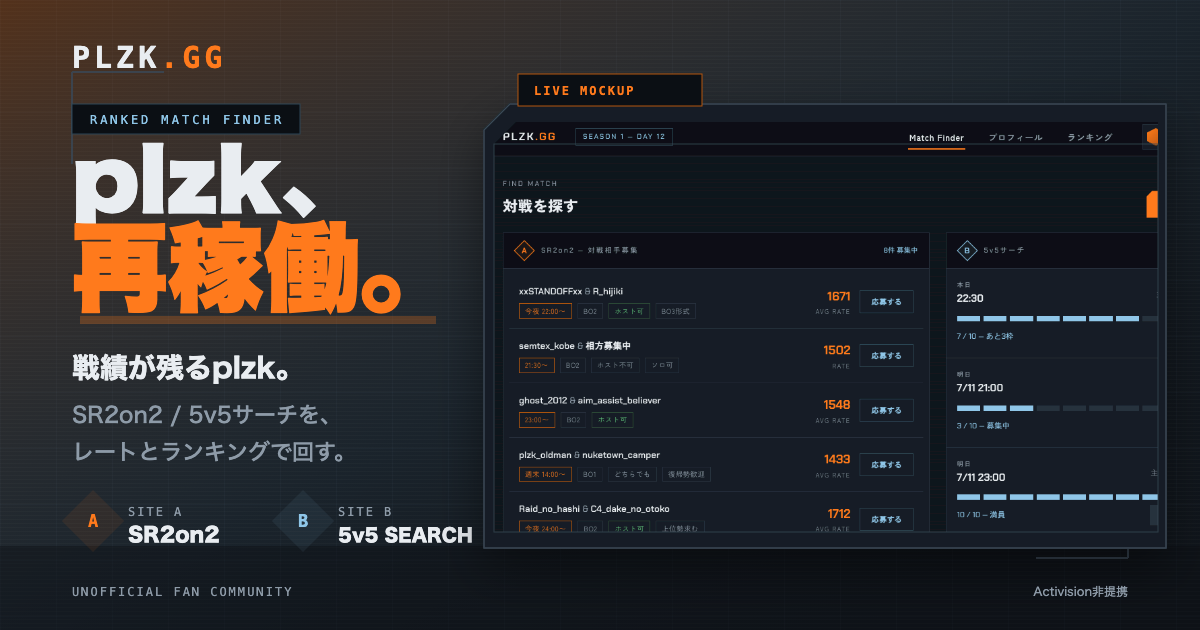
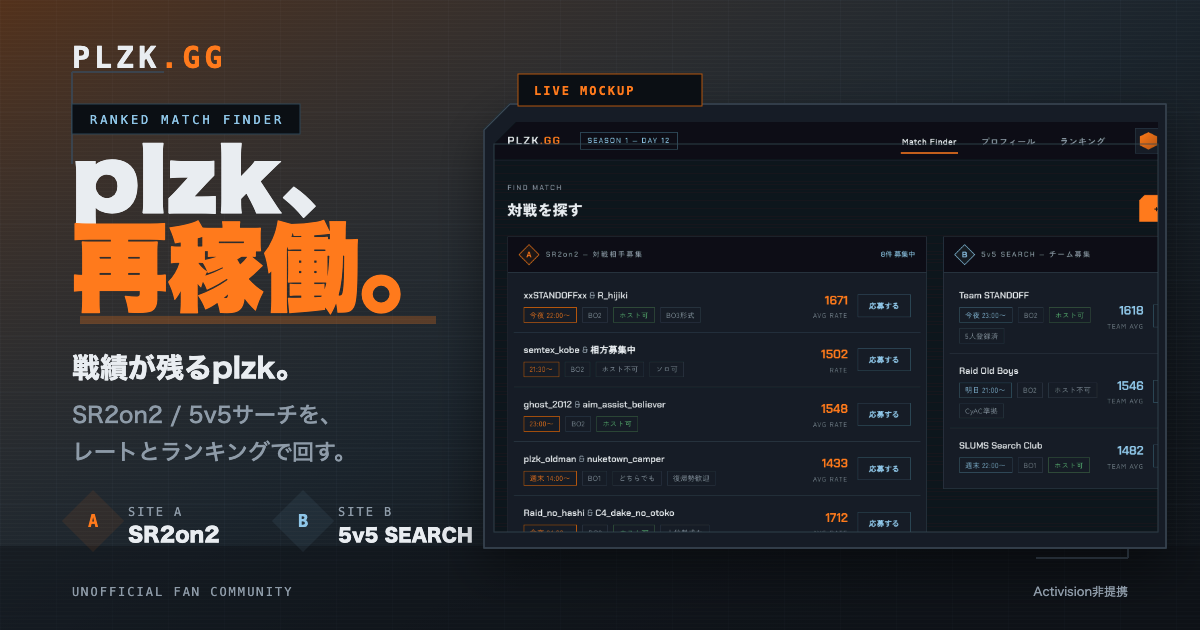
Add mockup-backed hero

diff --git a/index.html b/index.html
@@ -4,7 +4,7 @@
 <meta charset="UTF-8">
 <meta name="viewport" content="width=device-width, initial-scale=1.0">
 <title>PLZK.GG — plzk、再稼働。BO1/BO2のランク付き対戦コミュニティ</title>
-<meta name="description" content="BO1/BO2がPS5・PS4に帰ってくる。SR2on2と5v5サーチ(混合)を、レートと戦績が残る場所で回す。非公式ファンコミュニティ PLZK.GG">
+<meta name="description" content="BO1/BO2がPS5・PS4に帰ってくる。SR2on2と5v5サーチを、レートと戦績が残る場所で回す。非公式ファンコミュニティ PLZK.GG">
 <!-- OGP: X/Discord共有時の見え方 -->
 <meta property="og:title" content="plzk、再稼働。">
 <meta property="og:description" content="BO1/BO2、PS5に帰ってくる。SR2on2も5v5サーチも、ランクで回す。">
@@ -149,14 +149,47 @@ header nav a.hd-cta{
 @media(max-width:640px){header nav a:not(.hd-cta){display:none}}
 
 /* ===== HERO ===== */
-.hero{padding:120px 0 100px;border-top:none;position:relative}
+.hero{
+  min-height:min(660px,calc(100svh - 120px));
+  padding:96px 0 68px;border-top:none;position:relative;
+  overflow:hidden;display:flex;align-items:center;
+}
+.hero::after{
+  content:"";position:absolute;inset:0;pointer-events:none;z-index:1;
+  background:
+    linear-gradient(90deg,var(--bg) 0%,rgba(16,21,27,.98) 28%,rgba(16,21,27,.72) 58%,rgba(16,21,27,.28) 100%),
+    linear-gradient(0deg,var(--bg) 0%,rgba(16,21,27,0) 34%);
+}
 .hero .grid-bg{
-  position:absolute;inset:0;pointer-events:none;
+  position:absolute;inset:0;pointer-events:none;z-index:0;
   background:
     linear-gradient(rgba(143,198,232,.035) 1px,transparent 1px),
     linear-gradient(90deg,rgba(143,198,232,.035) 1px,transparent 1px);
   background-size:56px 56px;
   mask-image:radial-gradient(ellipse 80% 70% at 50% 20%,#000 0%,transparent 70%);
+}
+.hero .wrap{z-index:2;width:100%}
+.hero-visual{
+  position:absolute;z-index:0;right:-92px;top:96px;
+  width:min(760px,58vw);pointer-events:none;
+  opacity:.72;filter:drop-shadow(0 28px 34px rgba(0,0,0,.42));
+  transform:perspective(900px) rotateY(-10deg) rotateZ(-1deg);
+  transform-origin:center right;
+}
+.hero-visual::before{
+  content:"";position:absolute;inset:-1px;
+  border:1px solid var(--line-bright);
+  background:linear-gradient(135deg,rgba(255,122,28,.08),rgba(143,198,232,.03));
+}
+.hero-visual::after{
+  content:"";position:absolute;inset:0;
+  background:
+    linear-gradient(90deg,rgba(16,21,27,.1),rgba(16,21,27,0) 34%,rgba(16,21,27,.18)),
+    linear-gradient(0deg,rgba(16,21,27,.5),rgba(16,21,27,0) 32%);
+}
+.hero-visual img{
+  width:100%;display:block;position:relative;
+  border:1px solid var(--line);background:var(--panel);
 }
 .hero h1{
   font-weight:900;
@@ -180,6 +213,26 @@ header nav a.hd-cta{
 }
 .hero .fact strong{color:var(--hud);font-weight:600}
 .hero .cta-block{margin-top:44px}
+@media(max-width:760px){
+  .hero{
+    min-height:auto;display:block;padding:88px 0 0;
+  }
+  .hero::after{
+    background:
+      linear-gradient(180deg,var(--bg) 0%,rgba(16,21,27,.95) 46%,rgba(16,21,27,.38) 100%),
+      linear-gradient(0deg,var(--bg) 0%,rgba(16,21,27,0) 32%);
+  }
+  .hero .grid-bg{background-size:42px 42px}
+  .hero-visual{
+    position:relative;right:auto;top:auto;z-index:0;
+    width:calc(100% + 72px);height:230px;margin:34px 0 0 -36px;
+    opacity:.56;overflow:hidden;filter:drop-shadow(0 18px 22px rgba(0,0,0,.36));
+    transform:none;
+  }
+  .hero-visual img{width:560px;max-width:none;transform:translateX(-96px)}
+  .hero h1{font-size:clamp(56px,17vw,82px);margin-top:22px}
+  .hero .sub{font-size:16px;line-height:1.9;max-width:330px}
+}
 
 /* ===== 旗(決起文) ===== */
 .flag .body{
@@ -370,11 +423,14 @@ footer .links a:hover{color:var(--text)}
 <section class="hero" id="top">
   <div class="grid-bg"></div>
   <div class="wrap">
-    <h1>plzk、<br><span class="re">再始動</span>。</h1>
+    <h1>plzk、<br><span class="re">再稼働</span>。</h1>
     <p class="sub">
       2026年7月、BO1とBO2がPS5へ<br>
+      今度は<b>SR2on2</b>も<b>5v5サーチ</b>も、ここで回す。
     </p>
-    </p>
+  </div>
+  <div class="hero-visual" aria-hidden="true">
+    <img src="taisen-view.png?v=team-search" alt="">
   </div>
 </section>
 
@@ -383,7 +439,6 @@ footer .links a:hover{color:var(--text)}
   <div class="wrap rv">
     <p class="eyebrow">CONCEPT</p>
     <div class="sec-head"><h2>もう一度、あの界隈を盛り上げよう。</h2></div>
-    <div class="body">
     <div class="body">
       <p>
         Twitterの募集から混合に潜って、週末はクラン戦。<br>
@@ -428,14 +483,14 @@ footer .links a:hover{color:var(--text)}
           <div class="site-marker blue"><span class="diamond"></span><span>B</span></div>
           <div class="t">
             <span class="rank-tag">RANKED</span>
-            <h3>5v5 SEARCH<small>混合 / SOLO OK</small></h3>
+            <h3>5v5 SEARCH<small>TEAM SEARCH / 5v5</small></h3>
           </div>
         </div>
-        <p>一人でも潜れる10人サーチ。野良で入って、レートを持ち帰る。相方はここで見つかる。</p>
+        <p>組み上がった5人チームで、相手チームを探す。チーム平均レートで、クラン戦の熱量をそのまま残す。</p>
         <ul>
-          <li>ソロ参加OK。当時の「混合」をそのまま定期開催</li>
+          <li>Match Finderでチーム単位の募集・応募</li>
           <li>全試合がレートに反映、シーズンごとに確定</li>
-          <li>チーム分けから結果反映までサイトで完結</li>
+          <li>メンバー集めとロビー合流はDiscord/Xで完結</li>
         </ul>
       </div>
     </div>
@@ -444,7 +499,7 @@ footer .links a:hover{color:var(--text)}
     <!-- 実UIスクリーンショット2枚 -->
     <div class="mock-row">
       <div class="mock hud-panel rv"><span class="hud-c"></span>
-        <img src="taisen-view.png" alt="PLZK.GG Match Finder画面のスクリーンショット">
+        <img src="taisen-view.png?v=team-search" alt="PLZK.GG Match Finder画面のスクリーンショット">
       </div>
       <div class="mock hud-panel profile-mock rv"><span class="hud-c"></span>
         <img src="profile.png" alt="PLZK.GG プレイヤープロフィール画面のスクリーンショット">
@@ -484,7 +539,6 @@ footer .links a:hover{color:var(--text)}
 
 
 <!-- ================= FAQ ================= -->
-<!-- ================= FAQ ================= -->
 <section class="faq" id="faq">
   <div class="wrap">
     <div class="sec-head rv">
@@ -502,8 +556,7 @@ footer .links a:hover{color:var(--text)}
       </details>
       <details>
         <summary>当時やってなかった/ブランクがあるんですが</summary>
-        <div class="a">混合はソロ参加OK・レートも初期値から始まるので、腕は問いません。むしろ復帰勢・新規勢が入りやすい場を作るのが目的です。</div>
-      </details>
+        <div class="a">レートは初期値から始まるので、腕は問いません。ソロ復帰勢はDiscordの混合イベントや、SR2on2の相方募集から入りやすい場を作ります。</div>
       </details>
       <details>
         <summary>公式のサービスですか?</summary>
@@ -519,7 +572,6 @@ footer .links a:hover{color:var(--text)}
     <p class="legal">
       本サービスは、Activision Publishing, Inc.および関連会社とは一切関係のない、非公式のファンコミュニティです。<br>
       Call of Duty®はActivision Publishing, Inc.の商標です。本サイトはゲーム内画像・ロゴ等の著作物を使用していません。
-    </p>
     </p>
   </div>
 </footer>

diff --git a/plzk-mockup.html b/plzk-mockup.html
@@ -137,8 +137,10 @@ button{font-family:inherit;cursor:pointer}
 }
 .lfg-card .go:hover{color:#0B0F14;background:var(--hud)}
 @media(max-width:560px){.lfg-card .rt{display:none}}
+.team-list .lfg-card .rt .num{color:var(--hud)}
+.team-list .pill.b{color:var(--hud);border-color:#2E4756}
 
-/* ===== 混合イベント ===== */
+/* ===== 5v5チーム募集 ===== */
 .evt{padding:16px;border-bottom:1px solid var(--line)}
 .evt:last-child{border-bottom:none}
 .evt .e-top{display:flex;align-items:center;gap:12px}
@@ -338,43 +340,46 @@ svg.chart{width:100%;height:auto;display:block}
       </div>
     </div>
 
-    <!-- 混合イベント -->
+    <!-- 5v5 チーム募集 -->
     <div class="panel">
       <div class="p-bar">
         <span class="mk b"><i></i><span>B</span></span>
-        <span class="t">5v5サーチ</span>
+        <span class="t">5v5 SEARCH — チーム募集</span>
+        <span class="ct data">4件 募集中</span>
       </div>
-      <div class="evt">
-        <div class="e-top">
-          <div class="dt data"><small>本日</small>22:30</div>
-          <span class="host">主催: semtex_kobe</span>
+      <div class="lfg team-list">
+        <div class="lfg-card">
+          <div class="who">
+            <div class="nm">Team STANDOFF</div>
+            <div class="meta">
+              <span class="pill b">今夜 23:00〜</span><span class="pill">BO2</span>
+              <span class="pill g">ホスト可</span><span class="pill">5人登録済</span>
+            </div>
+          </div>
+          <div class="rt"><div class="num">1618</div><div class="lb">TEAM AVG</div></div>
+          <button class="go">応募する</button>
         </div>
-        <div class="slots"><i class="f"></i><i class="f"></i><i class="f"></i><i class="f"></i><i class="f"></i><i class="f"></i><i class="f"></i><i></i><i></i><i></i></div>
-        <div class="e-bot">
-          <span class="cnt data">7 / 10 — あと3枠</span>
-          <button class="join">参加する</button>
+        <div class="lfg-card">
+          <div class="who">
+            <div class="nm">Raid Old Boys</div>
+            <div class="meta">
+              <span class="pill b">明日 21:00〜</span><span class="pill">BO2</span>
+              <span class="pill">ホスト不可</span><span class="pill">CyAC準拠</span>
+            </div>
+          </div>
+          <div class="rt"><div class="num">1546</div><div class="lb">TEAM AVG</div></div>
+          <button class="go">応募する</button>
         </div>
-      </div>
-      <div class="evt">
-        <div class="e-top">
-          <div class="dt data"><small>明日</small>7/11 21:00</div>
-          <span class="host">主催: plzk_oldman</span>
-        </div>
-        <div class="slots"><i class="f"></i><i class="f"></i><i class="f"></i><i></i><i></i><i></i><i></i><i></i><i></i><i></i></div>
-        <div class="e-bot">
-          <span class="cnt data">3 / 10 — 募集中</span>
-          <button class="join">参加する</button>
-        </div>
-      </div>
-      <div class="evt full">
-        <div class="e-top">
-          <div class="dt data"><small>明日</small>7/11 23:00</div>
-          <span class="host">主催: Raid_no_hashi</span>
-        </div>
-        <div class="slots"><i class="f"></i><i class="f"></i><i class="f"></i><i class="f"></i><i class="f"></i><i class="f"></i><i class="f"></i><i class="f"></i><i class="f"></i><i class="f"></i></div>
-        <div class="e-bot">
-          <span class="cnt data">10 / 10 — 満員</span>
-          <button class="join">キャンセル待ち</button>
+        <div class="lfg-card">
+          <div class="who">
+            <div class="nm">SLUMS Search Club</div>
+            <div class="meta">
+              <span class="pill b">週末 22:00〜</span><span class="pill">BO1</span>
+              <span class="pill g">ホスト可</span>
+            </div>
+          </div>
+          <div class="rt"><div class="num">1482</div><div class="lb">TEAM AVG</div></div>
+          <button class="go">応募する</button>
         </div>
       </div>
     </div>

diff --git a/AGENTS.md b/AGENTS.md
@@ -142,7 +142,6 @@ font: Zen Kaku Gothic New（本文） / Chakra Petch（数値・データ）
 - LP `<script>` 冒頭の `MEMBER_COUNT`（現在のDiscord人数を手動更新）
 - OGP: `og:image` は絶対URL・1200×630。twitter:card は summary_large_image
   - 中身は「ロゴ+コピー+Match Finderスクショ切り抜き」の合成を想定
-- LPの混合説明文を5v5チーム制の世界観に整合（現状「一人でも潜れる」の記述が残っている可能性）
 
 ## 10. デプロイ
 

diff --git a/CLAUDE.md b/CLAUDE.md
@@ -142,7 +142,6 @@ font: Zen Kaku Gothic New（本文） / Chakra Petch（数値・データ）
 - LP `<script>` 冒頭の `MEMBER_COUNT`（現在のDiscord人数を手動更新）
 - OGP: `og:image` は絶対URL・1200×630。twitter:card は summary_large_image
   - 中身は「ロゴ+コピー+Match Finderスクショ切り抜き」の合成を想定
-- LPの混合説明文を5v5チーム制の世界観に整合（現状「一人でも潜れる」の記述が残っている可能性）
 
 ## 10. デプロイ
 